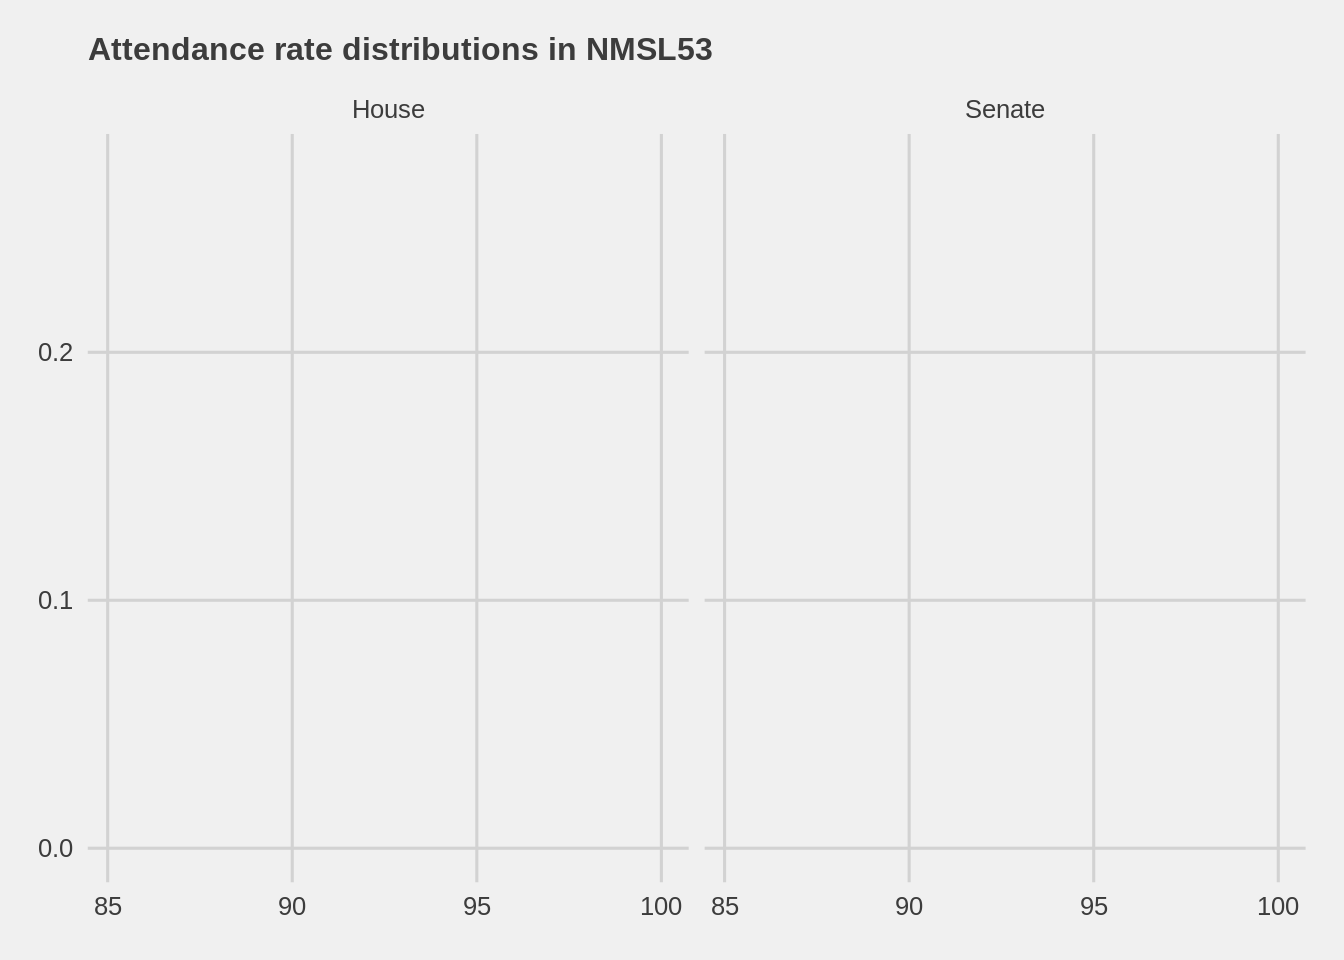
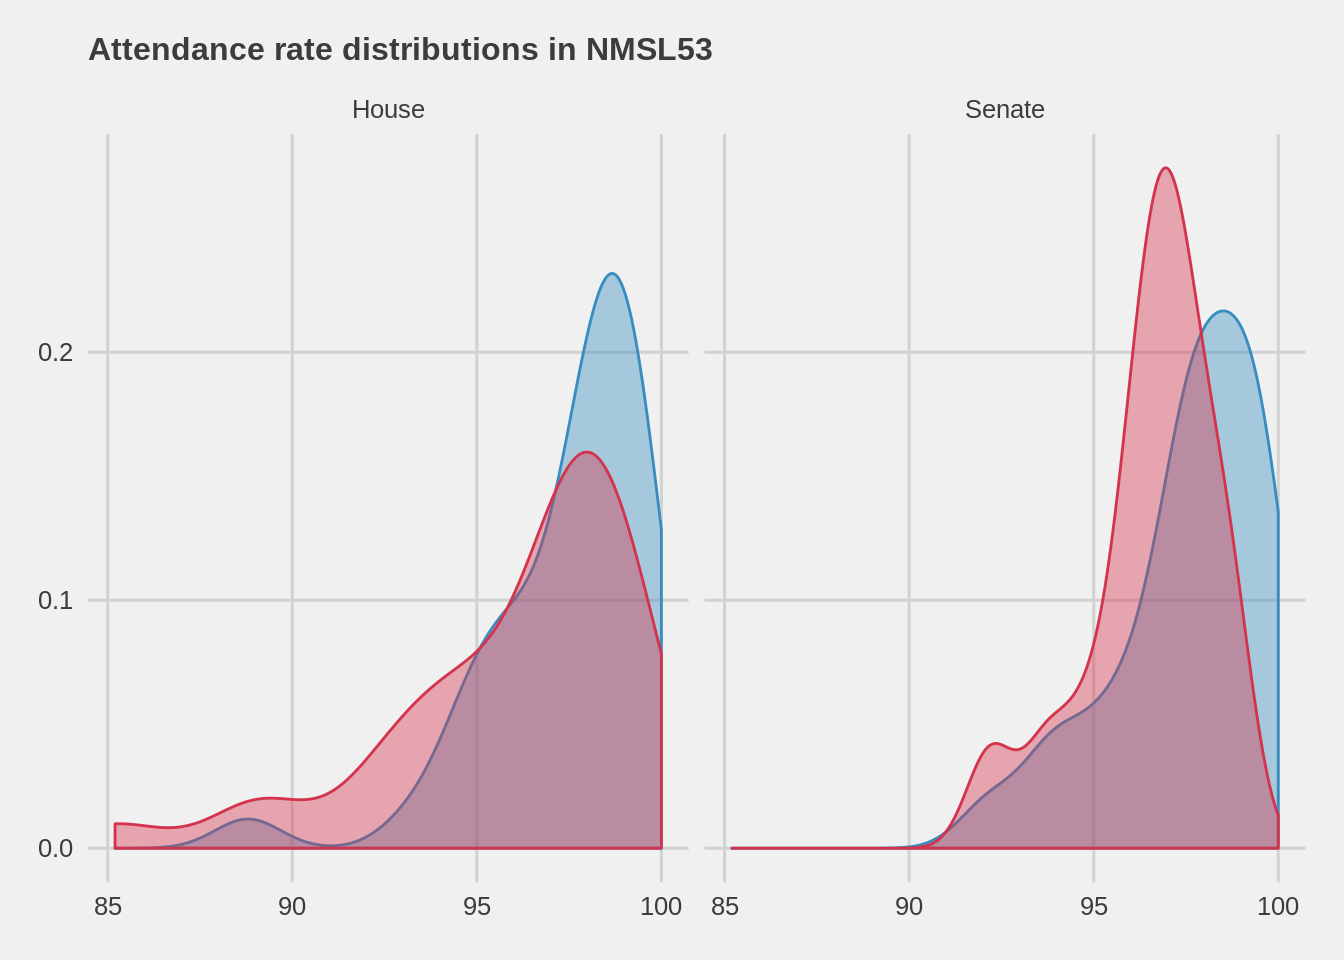
re

Changed region(s): [[0.5625, 0.1562, 0.9688, 0.9062], [0.0625, 0.2812, 0.5, 0.9062]]

diff --git a/content/post/2018-07-17-new-mexico-s-53rd-congress.html b/content/post/2018-07-17-new-mexico-s-53rd-congress.html
@@ -377,7 +377,7 @@ library(data.table)</code></pre>
 <p>The plot below summarizes <strong>attendance rate</strong> distributions by political affiliation for each house. While attendance rates are generally quite high, Democratic lawmakers are less likely to miss roll calls than their Republican counterparts.</p>
 <pre class="r"><code>nmlegisdatr::nml_legislator_descs %&gt;%
 ggplot( aes(Attendance, fill = Party, colour = Party)) +
-  wnomadds::scale_color_rollcall(aesthetics = c(&quot;fill&quot;,&quot;color&quot;)) + 
+  wnomadds::scale_color_party (aesthetics = c(&quot;fill&quot;,&quot;color&quot;)) + 
   ggthemes::theme_fivethirtyeight()+
   geom_density(alpha = 0.4)+
   facet_wrap(~Chamber)+
@@ -389,7 +389,7 @@ ggplot( aes(Attendance, fill = Party, colour = Party)) +
 <p>This discrepancy is clearly a complicated one. Certainly relevant is Democratic majorities (and fairly sizable ones) in both chambers. Also relevant is potential variation of political ideologies among Republicans in a cash-strapped state that has become solidly blue.</p>
 <pre class="r"><code>nmlegisdatr::nml_legislator_descs %&gt;%
 ggplot( aes(Party_Loyalty, fill = Party, colour = Party)) +
-  wnomadds::scale_color_rollcall(aesthetics = c(&quot;fill&quot;,&quot;color&quot;)) + 
+  wnomadds::scale_color_party (aesthetics = c(&quot;fill&quot;,&quot;color&quot;)) + 
   ggthemes::theme_fivethirtyeight()+
   geom_density(alpha = 0.4)+
   facet_wrap(~Chamber)+
@@ -661,7 +661,7 @@ senate &lt;- election(seats(42,4), subset(legs$Count, legs$Chamber == &#39;Senat
 bind_rows(house, senate) %&gt;%
   ggplot() +
   geom_point(aes(x,y, color=as.factor(party)), size = 6)+
-  wnomadds::scale_color_rollcall(aesthetics = c(&quot;color&quot;)) +
+  wnomadds::scale_color_party(aesthetics = c(&quot;color&quot;)) +
   ggthemes::theme_fivethirtyeight()+
   theme(axis.title.x=element_blank(),
         axis.text.x=element_blank(),
